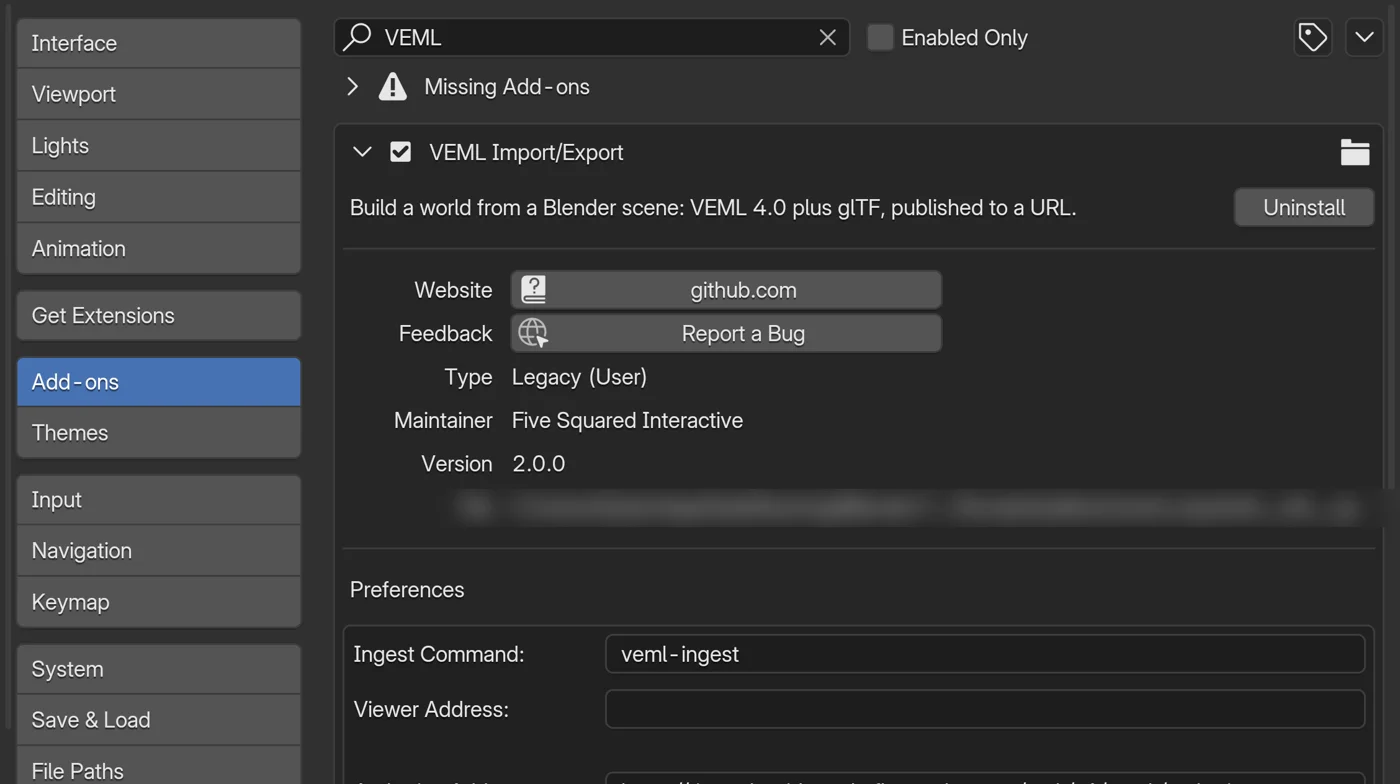
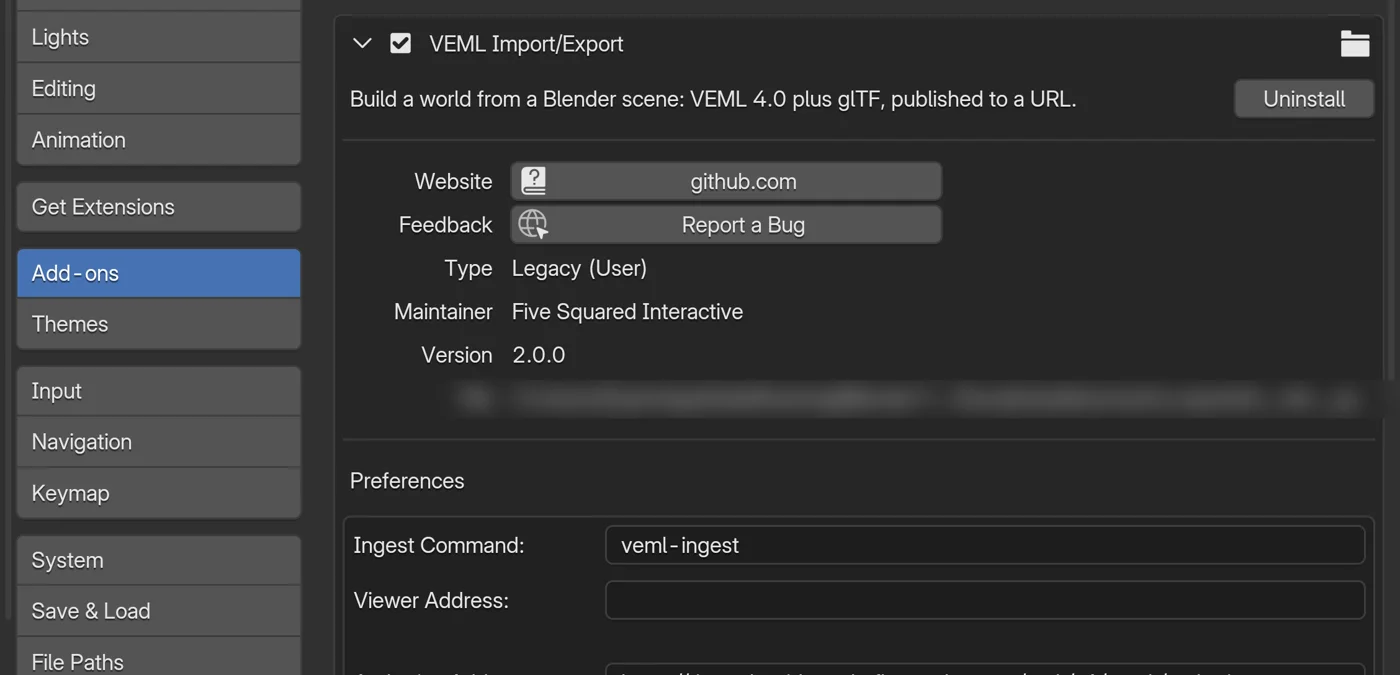
Review nits: the document wraps, the poster is the first frame, a name over their head
The world document on the home page wraps its long lines instead of
cutting them at the box's edge. The hero recordings use their own first
frame as the poster, the same 16:9 shape as the video, instead of the
800x388 loft card. The two-visitors picture says "a name over their
head" wherever it is described, since the name is the one the world
gives an anonymous visitor. The home page's first section loses its
third "nothing to", the Add-ons list picture is cropped below Blender's
warning row, the home words file carries the document caption word for
word, and the facts list no longer says the first-world screenshots
are untaken.

Claude-Session: https://claude.ai/code/session_01JEXdKrMUU9cRCMMXynotbZ

diff --git a/src/pages/Home.jsx b/src/pages/Home.jsx
@@ -2,7 +2,7 @@ import React from 'react';
 import { Link } from 'react-router-dom';
 import Slot from '../components/Slot';
 import WorldDocument from '../components/WorldDocument';
-import { DEMO_WORLD_URL, WORLDHUB_URL, WORLD_CARD, WORLD_ROOM, WORLD_TOGETHER, WORLD_HERO_ALT } from '../links';
+import { DEMO_WORLD_URL, WORLDHUB_URL, WORLD_CARD, HERO_POSTER, WORLD_ROOM, WORLD_TOGETHER, WORLD_HERO_ALT } from '../links';
 
 // The words are content/home.md; keep the two in step. The home page says
 // one thing: making a good shared world is easy. Eight one-line sections,
@@ -63,7 +63,7 @@ const Home = () => {
             <p className="hero-note">Free and open source.</p>
           </div>
           <div className="media-figure" id="watch">
-            <video className="hero-video" autoPlay muted loop playsInline preload="metadata" poster={WORLD_CARD} aria-label="A phone standing in the loft as a second visitor walks in; then the one press in Blender that published it, and the browser opening the world">
+            <video className="hero-video" autoPlay muted loop playsInline preload="metadata" poster={HERO_POSTER} aria-label="A phone standing in the loft as a second visitor walks in; then the one press in Blender that published it, and the browser opening the world">
               <source src="/video/hero-2026-11-13d.webm" type="video/webm" />
               <source src="/video/hero-2026-11-13d.mp4" type="video/mp4" />
             </video>
@@ -78,7 +78,7 @@ const Home = () => {
         figure={<img className="feature-photo" src="/images/station-hall.webp" alt="A subway station hall, a model made elsewhere and published as a world without changing it" width="1600" height="780" loading="lazy" />}
         credit={<>“Subway station” by <a href="https://skfb.ly/pByQU" target="_blank" rel="noopener noreferrer">Pasha</a>, CC BY 4.0, published as a world unchanged.</>}
       >
-        Bring a scene from the tools you already use. Nothing to relearn, nothing to rebuild.
+        Bring a scene from the tools you already use. It comes in as it is.
       </Feature>
 
       <Feature
@@ -94,7 +94,7 @@ const Home = () => {
         id="together"
         light
         title="Together, from the start."
-        figure={<img className="feature-photo" src={WORLD_TOGETHER} alt="Inside the loft, a second visitor stands in the entry hall with their name shown over their head" width="1600" height="780" loading="lazy" />}
+        figure={<img className="feature-photo" src={WORLD_TOGETHER} alt="Inside the loft, a second visitor stands in the entry hall with a name over their head" width="1600" height="780" loading="lazy" />}
       >
         Whoever opens the link is in there with you.
       </Feature>

diff --git a/src/pages/FirstWorld.jsx b/src/pages/FirstWorld.jsx
@@ -1,6 +1,6 @@
 import React from 'react';
 import Slot from '../components/Slot';
-import { ADDON_ZIP, WORLD_CARD, WORLDHUB_URL } from '../links';
+import { ADDON_ZIP, HERO_POSTER, WORLDHUB_URL } from '../links';
 
 // The first-world guide: from a Blender scene to a link anyone can walk into.
 // The words are content/first-world.md; keep the two in step. The add-on zip
@@ -50,7 +50,7 @@ const FirstWorld = () => {
             <p className="hero-note">Free and open source. Blender 4.5 or newer.</p>
           </div>
           <div className="media-figure" id="watch">
-            <video className="hero-video" autoPlay muted loop playsInline preload="metadata" poster={WORLD_CARD} aria-label="A phone standing in the loft as a second visitor walks in; then the one press in Blender that published it, and the browser opening the world">
+            <video className="hero-video" autoPlay muted loop playsInline preload="metadata" poster={HERO_POSTER} aria-label="A phone standing in the loft as a second visitor walks in; then the one press in Blender that published it, and the browser opening the world">
               <source src="/video/hero-2026-11-13d.webm" type="video/webm" />
               <source src="/video/hero-2026-11-13d.mp4" type="video/mp4" />
             </video>
@@ -65,7 +65,7 @@ const FirstWorld = () => {
           </div>
           <div className="grid-3-steps">
             <div className="step-tile">
-              <img className="tile-img" src="/images/blender-addons-list.webp" alt="Blender's Add-ons list with the VEML add-on ticked" width="1400" height="784" loading="lazy" />
+              <img className="tile-img" src="/images/blender-addons-list.webp" alt="Blender's Add-ons list with the VEML add-on ticked" width="1400" height="675" loading="lazy" />
               <h3><span className="step-n">1</span> Install the add-on</h3>
               <p>Blender 4.5 or newer. Sign in once with Google, GitHub or an emailed link.</p>
             </div>

diff --git a/src/pages/Builders.jsx b/src/pages/Builders.jsx
@@ -1,6 +1,6 @@
 import React from 'react';
 import { Link } from 'react-router-dom';
-import { WORLD_CARD, WORLDHUB_URL } from '../links';
+import { HERO_POSTER, WORLDHUB_URL } from '../links';
 
 // For people who want to make a world of their own, with other people in
 // it. The words are content/builders.md; keep the two in step. Problem
@@ -22,7 +22,7 @@ const Builders = () => (
           </div>
         </div>
         <div className="media-figure" id="watch">
-          <video className="hero-video" autoPlay muted loop playsInline preload="metadata" poster={WORLD_CARD} aria-label="A phone standing in the loft as a second visitor walks in; then the one press in Blender that published it, and the browser opening the world">
+          <video className="hero-video" autoPlay muted loop playsInline preload="metadata" poster={HERO_POSTER} aria-label="A phone standing in the loft as a second visitor walks in; then the one press in Blender that published it, and the browser opening the world">
             <source src="/video/hero-2026-11-13d.webm" type="video/webm" />
             <source src="/video/hero-2026-11-13d.mp4" type="video/mp4" />
           </video>
@@ -33,7 +33,7 @@ const Builders = () => (
     <section className="section section-light big-row">
       <div className="container media-row flip">
         <div className="media-figure">
-          <img className="feature-photo" src="/images/loft-two-visitors.webp" alt="Inside the loft, a second visitor stands in the entry hall with their name shown over their head" width="1600" height="780" loading="lazy" />
+          <img className="feature-photo" src="/images/loft-two-visitors.webp" alt="Inside the loft, a second visitor stands in the entry hall with a name over their head" width="1600" height="780" loading="lazy" />
         </div>
         <div className="media-text">
           <h2 className="big">Your people, in your world, without running a server.</h2>

diff --git a/src/pages/Architects.jsx b/src/pages/Architects.jsx
@@ -1,6 +1,6 @@
 import React from 'react';
 import { Link } from 'react-router-dom';
-import { WORLD_CARD, WORLDHUB_URL } from '../links';
+import { HERO_POSTER, WORLDHUB_URL } from '../links';
 
 // For architects, interior and landscape designers, and real estate. The
 // words are content/architects.md; keep the two in step. Problem first,
@@ -23,7 +23,7 @@ const Architects = () => (
           </div>
         </div>
         <div className="media-figure" id="watch">
-          <video className="hero-video" autoPlay muted loop playsInline preload="metadata" poster={WORLD_CARD} aria-label="A phone standing in the loft as a second visitor walks in; then the one press in Blender that published it, and the browser opening the world">
+          <video className="hero-video" autoPlay muted loop playsInline preload="metadata" poster={HERO_POSTER} aria-label="A phone standing in the loft as a second visitor walks in; then the one press in Blender that published it, and the browser opening the world">
             <source src="/video/hero-2026-11-13d.webm" type="video/webm" />
             <source src="/video/hero-2026-11-13d.mp4" type="video/mp4" />
           </video>

diff --git a/src/pages/About.jsx b/src/pages/About.jsx
@@ -90,7 +90,7 @@ const About = () => {
               <ul className="live-list">
                 <li><a href="/images/world-loft-room.webp" target="_blank" rel="noopener noreferrer">The loft, opened in a browser</a> (1600 by 780)</li>
                 <li><a href="/images/loft-browser-tab.webp" target="_blank" rel="noopener noreferrer">The loft in a browser tab, address bar showing</a> (1400 by 1165)</li>
-                <li><a href="/images/loft-two-visitors.webp" target="_blank" rel="noopener noreferrer">Two visitors in the loft, one named</a> (1600 by 780)</li>
+                <li><a href="/images/loft-two-visitors.webp" target="_blank" rel="noopener noreferrer">Two visitors in the loft, a name over one's head</a> (1600 by 780)</li>
                 <li><a href="/images/loft-phone.webp" target="_blank" rel="noopener noreferrer">The loft on a phone</a> (780 by 1688)</li>
                 <li><a href="/images/loft-door.webp" target="_blank" rel="noopener noreferrer">The loft's front door, a door to another world</a> (1600 by 780)</li>
               </ul>

diff --git a/src/App.css b/src/App.css
@@ -1934,8 +1934,8 @@ pre.code-example {
 .doc-frame pre.code-example {
   margin: 0;
   font-size: 0.78rem;
-  white-space: pre;
-  overflow-x: auto;
+  white-space: pre-wrap;
+  overflow-wrap: anywhere;
 }
 .doc-frame pre.code-example code { white-space: inherit; }
 .card-glyph {
@@ -2032,7 +2032,7 @@ pre.code-example {
 .doc-line { display: flex; align-items: center; gap: .6rem; padding: 0 .25rem; border-radius: .25rem; min-height: 1.45rem; }
 .doc-gutter { width: 1.5rem; flex: none; display: flex; align-items: center; }
 .doc-line .doc-mark { width: 1.3rem; height: 1.3rem; line-height: 1.3rem; font-size: .78rem; }
-.doc-text { white-space: pre; }
+.doc-text { white-space: pre-wrap; overflow-wrap: anywhere; min-width: 0; }
 .doc-line-active { background: rgba(79, 70, 229, 0.12); }
 .doc-legend li { cursor: default; border-radius: 8px; padding: .1rem .5rem .1rem .1rem; }
 .doc-legend li.is-active { background: rgba(79, 70, 229, 0.12); }

diff --git a/src/links.js b/src/links.js
@@ -45,4 +45,7 @@ export const WORLD_ROOM = '/images/world-loft-room.webp';
 // name over their head: two headless visitors, shot from the first's eyes.
 export const WORLD_TOGETHER = '/images/loft-two-visitors.webp';
 export const WORLD_CARD = '/images/world-loft-card.webp';
+// The first frame of the hero recording, the same 16:9 shape as the video,
+// so the poster and the first frame are one picture.
+export const HERO_POSTER = '/images/hero-poster.webp';
 export const WORLD_HERO_ALT = 'A loft with a long window over sunlit hills, a sofa and bar stools: a world opened in a browser';

diff --git a/content/home.md b/content/home.md
@@ -23,7 +23,9 @@ Make a place, send the link, and people walk around in it with you.
 Free and open source.
 
 *(Recording, muted and looping, `public/video/hero-2026-11-13d.webm`
-with an mp4 beside it; the file name carries its date so a replacement
+with an mp4 beside it and its first frame as the poster,
+`hero-poster.webp`, so the still and the moving picture are the same
+shape; the file name carries its date so a replacement
 is never served stale from a browser's cache: a phone standing in the loft as a second visitor walks in,
 then the one press in Blender that published it, then the browser
 opening the world. A 23-second draft assembled on 2026-11-13 from the
@@ -33,8 +35,9 @@ replaced when he records a better one.)*
 
 ## Share the worlds you already have.
 
-Bring a scene from the tools you already use. Nothing to relearn, nothing
-to rebuild.
+Bring a scene from the tools you already use. It comes in as it is.
+*(Review, 2026-11-13: "Nothing to relearn, nothing to rebuild" was the
+third "nothing to…" on the page.)*
 *(Picture: the subway station's hall, `station-hall.webp`: a model made
 elsewhere, brought into Blender and published unchanged. A credit line
 under the picture: "Subway station" by Pasha, CC BY 4.0, with the
@@ -49,8 +52,9 @@ to install.
 ## Together, from the start.
 
 Whoever opens the link is in there with you.
-[slot: two visitors in a world, their names over their heads: a frame from
-the recording]
+*(Picture: a second visitor in the loft's hall with a name over their
+head, `loft-two-visitors.webp`. The name is the one the world gives an
+anonymous visitor, so the copy says "a name", never "their name".)*
 
 ## Make it, send it.
 
@@ -80,7 +84,9 @@ whose link names the station; the clip through it waits for v4-monorepo
 Plain files at your own address, in an open format, on any host you like.
 [How it works](/technology)
 *(The loft's whole document, 1,119 bytes since the door went in on
-2026-11-13, with six marks, as the picture; no second loft frame.)*
+2026-11-13, with six marks, as the picture; no second loft frame. Its
+caption, word for word: "A whole world, with a door in it: 1,119 bytes.
+Add /index.veml to any published world's address and read it.")*
 
 ## Closing (three cards, then one line)
 

diff --git a/content/README.md b/content/README.md
@@ -226,6 +226,7 @@ until a spec, repo or protocol document is public (founder to confirm).
 - The add-on's File > Export > Export VEML is the legacy (VEML 3)
   exporter (entities, VEML 3); the 4.0 publish path is Save and Publish
   only. So the copy never tells a Blender user to "export the folder" to
-  their own host; it says that step waits on the published page's download. The first-world steps have `shot` slots for Blender
-  screenshots nobody has taken yet. The social preview is
+  their own host; it says that step waits on the published page's download. Every first-world step has its Blender
+  screenshot (taken 2026-11-12 and 2026-11-13; the Add-ons list is cropped
+  to the list itself, below Blender's own warning row). The social preview is
   `og-world-is-a-page.png`.

diff --git a/content/builders.md b/content/builders.md
@@ -21,8 +21,9 @@ the door clip waits for v4-monorepo #873.)*
 Whoever opens the link is in the world with everyone else there at that
 moment. You see each other move and you can chat. The visitors' browsers
 connect to each other, so nothing of yours has to stay switched on.
-*(Picture: a second visitor in the loft's hall with their name over their
-head, `loft-two-visitors.webp`.)*
+*(Picture: a second visitor in the loft's hall with a name over their
+head, `loft-two-visitors.webp`; the name is the one the world gives an
+anonymous visitor.)*
 
 ## Put a door in your world that points to a friend's.
 

diff --git a/content/about.md b/content/about.md
@@ -58,7 +58,7 @@ requests: info@fivesquaredinteractive.com.
   MIT.
 - **Pictures.** Five links to the site's own full-size pictures: the loft
   opened in a browser, the loft in a browser tab with the address bar, two
-  visitors in the loft with one named, the loft on a phone, the loft's
+  visitors in the loft with a name over one's head, the loft on a phone, the loft's
   front door (a door to another world). Logos: the Five Squared mark, the WebVerse mark and wordmark,
   the VEML mark, by email on request (the founder, 2026-11-13: no zip yet,
   and no place named).
